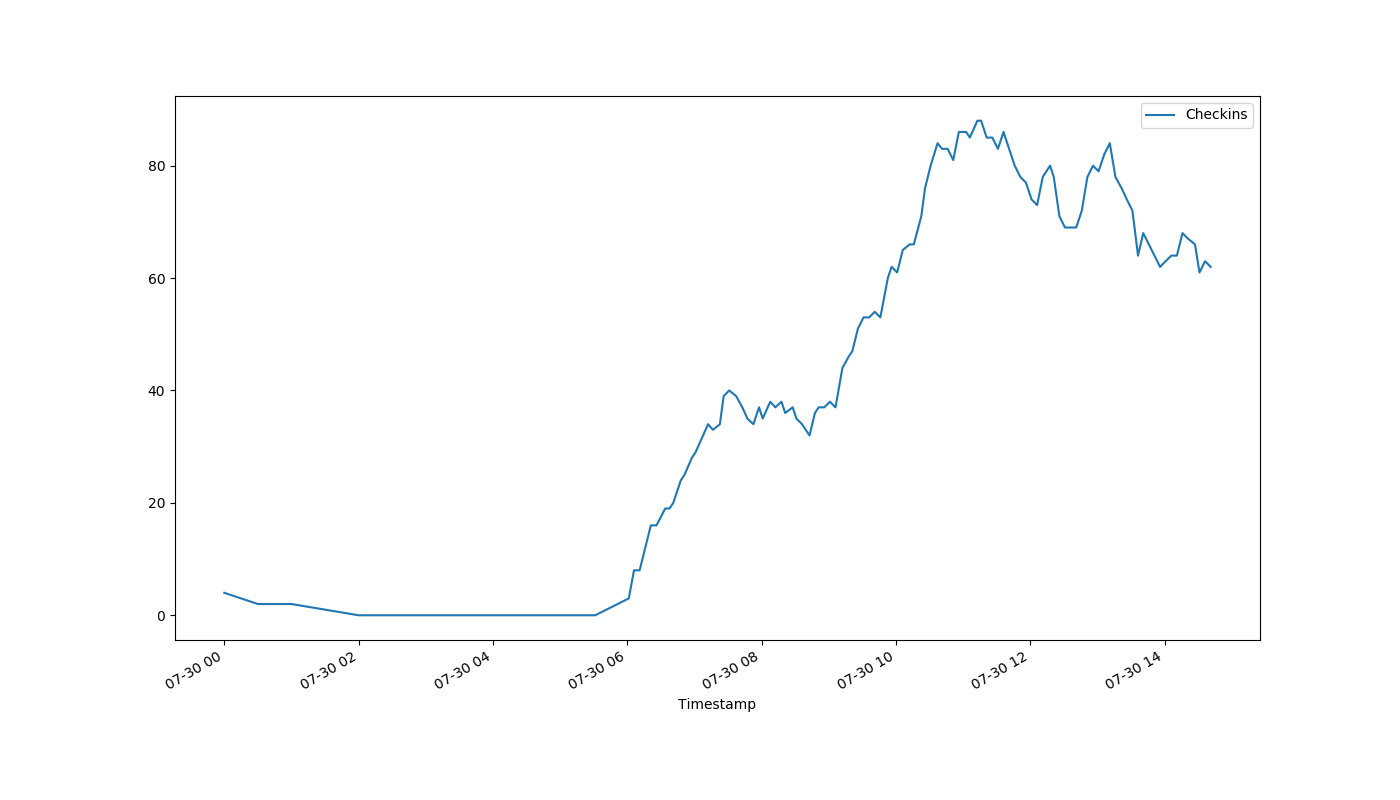
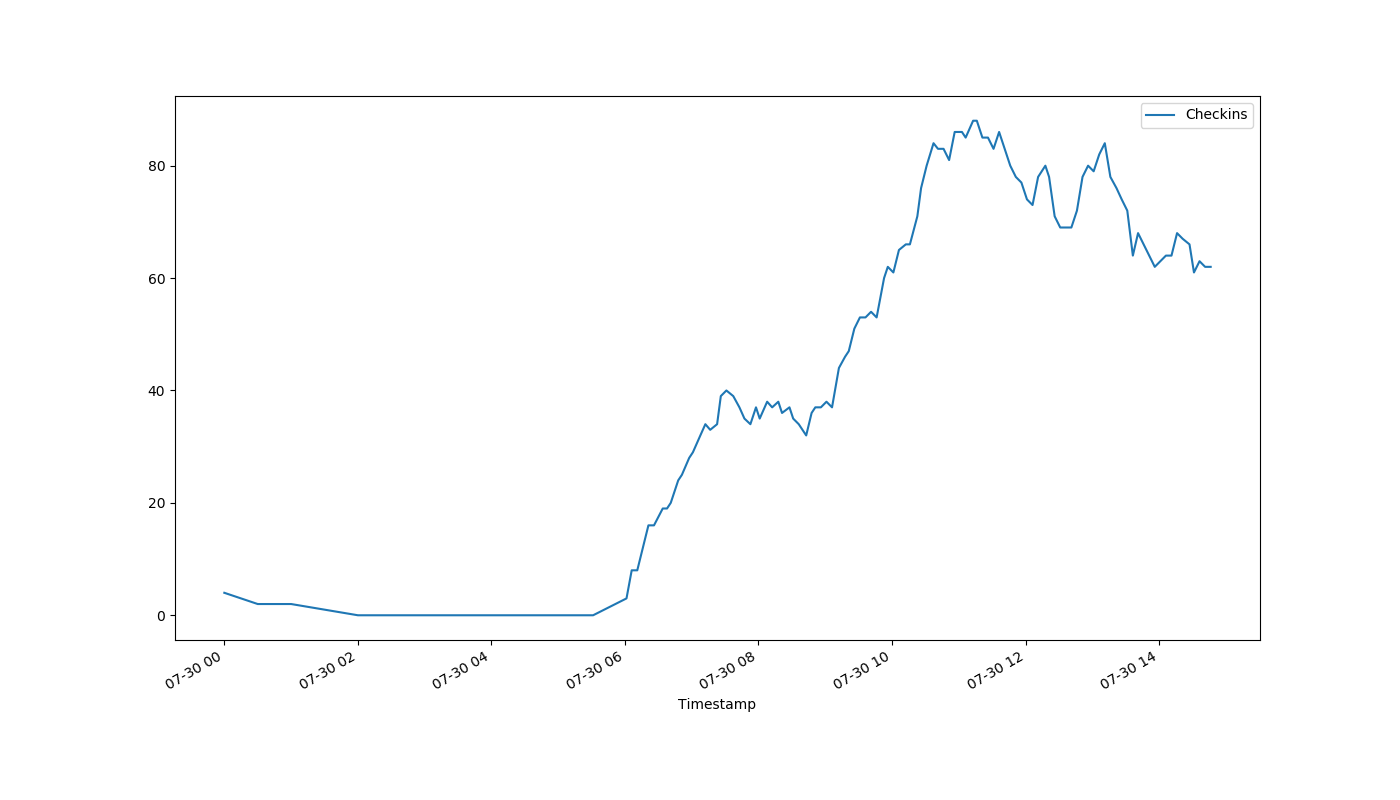
auto-Jul-30-14:47:44

diff --git a/index.html b/index.html
@@ -1,1 +1,1 @@
-<!DOCTYPE html><html><head><meta http-equiv="refresh" content="30"><link rel='stylesheet' href='holmcurrent.css'></head><body><p id='count'>62</p><div id='graph-wrap'><img id='graph' src='holmgraph-Jul-30.png'></div><p id='updated'>Last updated 14:41:17 / 14:41:14</p></body></html>
+<!DOCTYPE html><html><head><meta http-equiv="refresh" content="30"><link rel='stylesheet' href='holmcurrent.css'></head><body><p id='count'>62</p><div id='graph-wrap'><img id='graph' src='holmgraph-Jul-30.png'></div><p id='updated'>Last updated 14:46:17 / 14:46:14</p></body></html>
